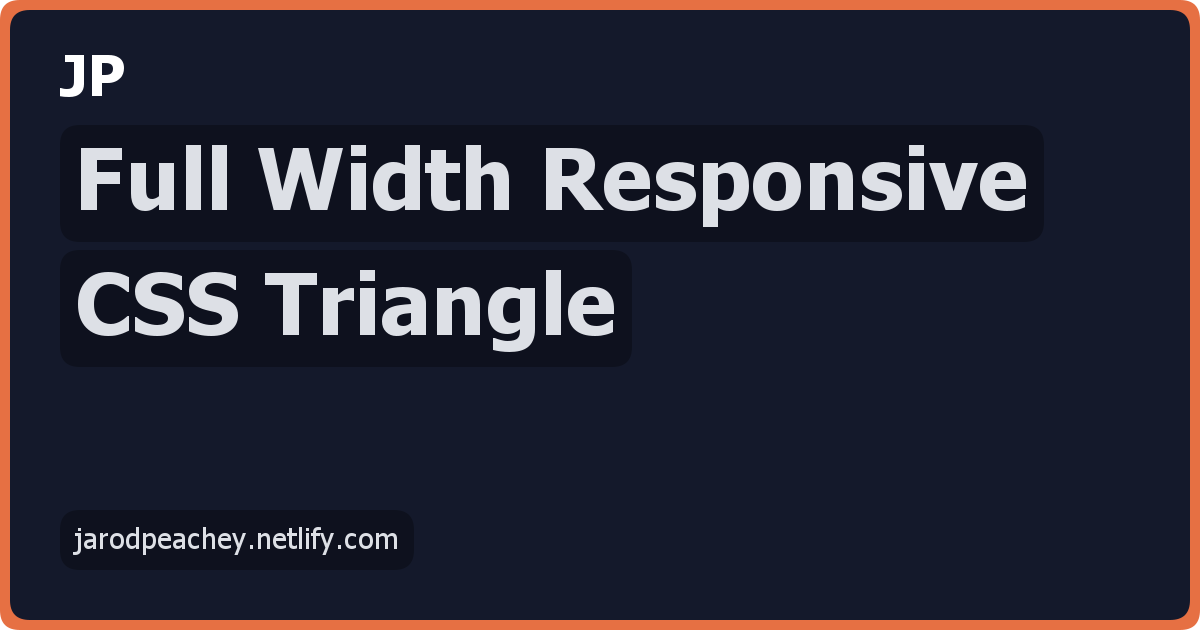
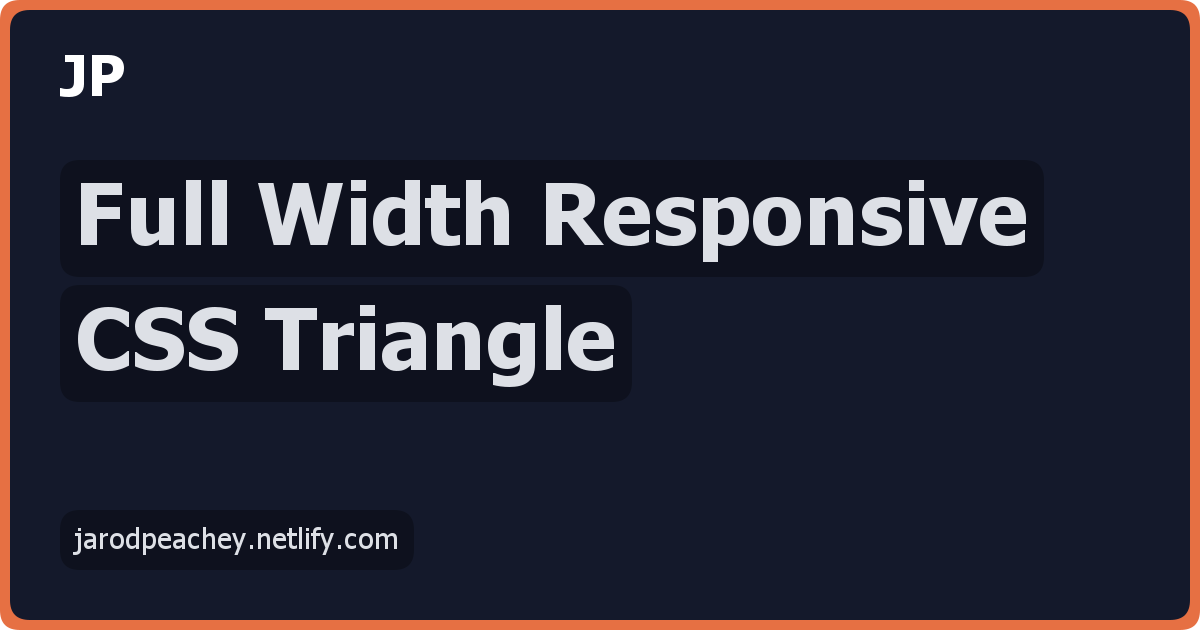
Update stuff

Changed region(s): [[0.0617, 0.2111, 0.8633, 0.4222], [0.0617, 0.4222, 0.5242, 0.6333]]

diff --git a/src/templates/blog.js b/src/templates/blog.js
@@ -45,8 +45,10 @@ const Blog = ({ pageContext }) => {
   return (
     <Layout>
       <SEO
-        title="Jarod Peachey - Front End Web Developer"
-        description="Modern website solutions built to be blazing fast, extremely secure and simple to manage. Built using React, Gatsby, Netlify, HTML, CSS and the JAMstack."
+        title="Blog - Jarod Peachey"
+        description="A collection of tips, tricks, bug fixes and random thoughts
+          about web development. React, Javascript and the JAMstack."
+        seoImage="/images/blog/seo.js"
       />
       <Hero
         background={`linear-gradient(
@@ -70,13 +72,10 @@ const Blog = ({ pageContext }) => {
       <Section
         spacing="sm"
         customStyles={`
-          margin-top: -60px;
+          margin-top: -40px;
         `}
       >
         <Container size="lg" customStyles={'position: relative;'}>
-          <Heading type="h5" display="title" color="primary">
-            Recent
-          </Heading>
           <Row spacing={[12]} breakpoints={[769, 1200]}>
             {group.map(({ node }) => (
               <Link
@@ -84,7 +83,7 @@ const Blog = ({ pageContext }) => {
                 widths={[6, 4]}
                 to={`/blog/${node.slug}`}
               >
-                <Card className="dark" key={node.id}>
+                <Card key={node.id}>
                   <Heading
                     customStyles={'line-height: 30px !important;'}
                     className="mt-none mb-3"
@@ -101,6 +100,27 @@ const Blog = ({ pageContext }) => {
                   <Paragraph>
                     {shortenText(node.metadata.description, 200)}
                   </Paragraph>
+                  <Link
+                    to={`/blog/${node.slug}`}
+                    style={{
+                      color: theme.color.secondary,
+                      textDecoration: 'none',
+                    }}
+                  >
+                    Read More
+                    <IconWrapper id="icon">
+                      <FontAwesomeIcon
+                        style={{
+                          color: theme.color.secondary,
+                          fontSize: 14,
+                          marginLeft: 8,
+                          position: 'relative',
+                          top: 2,
+                        }}
+                        icon="arrow-right"
+                      />
+                    </IconWrapper>
+                  </Link>
                 </Card>
               </Link>
             ))}
@@ -119,8 +139,10 @@ const Blog = ({ pageContext }) => {
             <PaginationButton
               active={
                 button.number === 1
-                  ? window.location.pathname === '/blog'
-                  : window.location.pathname.includes(button.path)
+                  ? typeof window !== 'undefined' &&
+                    window.location.pathname === '/blog/'
+                  : typeof window !== 'undefined' &&
+                    window.location.pathname.includes(button.path)
               }
               to={button.path}
             >
@@ -145,55 +167,6 @@ const Blog = ({ pageContext }) => {
           <div className="nextLink">
             <NavLink test={last} url={nextUrl} text="Go to Next Page" />
           </div> */}
-          <br />
-          <br />
-          <br />
-          <br />
-          <br />
-          <br />
-          <br />
-          <br />
-          <br />
-          <br />
-          <br />
-          <br />
-          <br />
-          <br />
-          <br />
-          <br />
-          <br />
-          <br />
-          <br />
-          <br />
-          <br />
-          <br />
-          <br />
-          <br />
-          <br />
-          <br />
-          <br />
-          <br />
-          <br />
-          <br />
-          <br />
-          <br />
-          <br />
-          <br />
-          <br />
-          <br />
-          <br />
-          <br />
-          <br />
-          <br />
-          <br />
-          <br />
-          <br />
-          <br />
-          <br />
-          <br />
-          <br />
-          <br />
-          <br />
         </Container>
       </Section>
     </Layout>
@@ -209,14 +182,38 @@ const NavLink = (props) => {
 };
 
 const Card = styled.div`
-  background: white;
+  background: ${(props) => props.theme.color.gray.eight};
+  background: #25293a;
   border-radius: 6px;
   padding: 18px;
   height: 100%;
+  h3 {
+    transition: 0.15s !important;
+  }
   @media (min-width: 769px) {
     padding: 24px;
   }
   box-shadow: 8px 8px 35px -20px #000;
+  transition: .15s;
+  :hover {
+    box-shadow: 8px 8px 45px -15px #000;
+    // h3 {
+    //   color: ${(props) => props.theme.color.secondary} !important;
+    //   transition: 0.15s !important;
+    // }
+    #icon {
+      left: 0px !important;
+      opacity: 1 !important;
+    }
+  }
+`;
+
+const IconWrapper = styled.div`
+  opacity: 0;
+  position: relative;
+  transition: 0.15s;
+  left: -20px;
+  display: inline-block;
 `;
 
 const PaginationPlaceholder = styled.div`

diff --git a/src/pages/index.js b/src/pages/index.js
@@ -155,7 +155,14 @@ const App = ({}) => {
               <Info
                 color="primary"
                 align="left"
-                customStyles={`background: ${theme.color.gray.eight}; :hover {box-shadow: 2px 10px 70px -18px ${theme.color.gray.eight};} transition-duration: .15s;`}
+                customStyles={`  background: ${(props) =>
+                  props.theme.color.gray.eight};
+  background: #25293A;
+  border-radius: 6px;
+
+
+
+  box-shadow: 8px 8px 35px -20px #000;`}
                 image={<img src={WeVoteImageTwo} />}
               >
                 <div className="px-4 py-4 pb-y">
@@ -213,7 +220,14 @@ const App = ({}) => {
               <Info
                 color="primary"
                 align="left"
-                customStyles={`background: ${theme.color.gray.eight}; :hover {box-shadow: 2px 10px 70px -18px ${theme.color.gray.eight};} transition-duration: .15s;`}
+                customStyles={`  background: ${(props) =>
+                  props.theme.color.gray.eight};
+  background: #25293A;
+  border-radius: 6px;
+
+
+
+  box-shadow: 8px 8px 35px -20px #000;`}
                 image={<img src={StaticboxImage} />}
               >
                 <div className="px-4 py-4 pb-y">
@@ -276,7 +290,14 @@ const App = ({}) => {
               <Info
                 color="primary"
                 align="left"
-                customStyles={`background: ${theme.color.gray.eight}; :hover {box-shadow: 2px 10px 70px -18px ${theme.color.gray.eight};} transition-duration: .15s;`}
+                customStyles={`  background: ${(props) =>
+                  props.theme.color.gray.eight};
+  background: #25293A;
+  border-radius: 6px;
+
+
+
+  box-shadow: 8px 8px 35px -20px #000;`}
                 image={<img src={JellyImage} />}
               >
                 <div className="px-4 py-4 pb-y">
@@ -337,7 +358,14 @@ const App = ({}) => {
               <Info
                 color="primary"
                 align="left"
-                customStyles={`background: ${theme.color.gray.eight}; :hover {box-shadow: 2px 10px 70px -18px ${theme.color.gray.eight};} transition-duration: .15s;`}
+                customStyles={`  background: ${(props) =>
+                  props.theme.color.gray.eight};
+  background: #25293A;
+  border-radius: 6px;
+
+
+
+  box-shadow: 8px 8px 35px -20px #000;`}
                 image={<img src={SystemImage} />}
               >
                 <div className="px-4 py-4 pb-y">

diff --git a/src/templates/post.js b/src/templates/post.js
@@ -30,6 +30,12 @@ library.add(faCheck, faUser, faCalendar, faCommentAlt, faArrowUp);
 const PostTemplate = ({ data, pageContext, location }) => {
   const { post } = data;
 
+  console.log(pageContext.seoImage);
+  console.log(pageContext.seoImage);
+  console.log(pageContext.seoImage);
+  console.log(pageContext.seoImage);
+  console.log(pageContext.seoImage);
+
   return (
     <Layout>
       <SEO
@@ -76,21 +82,23 @@ const PostTemplate = ({ data, pageContext, location }) => {
         </Container>
       </Hero>
       <Section spacing="small" customStyles={'padding-top: 0;'}>
-        <Container customStyles="position: relative;">
-          <Card>
-            {post.metadata.markdown_content && (
-              <div id="post-content" className="dark">
-                <ReactMarkdown source={post.metadata.markdown_content} />
-              </div>
-            )}
-            {!post.metadata.markdown_content && (
-              <div
-                id="post-content"
-                className="dark"
-                dangerouslySetInnerHTML={{ __html: post.content }}
-              />
-            )}
-          </Card>
+        <Container size="lg">
+          <Container align="left" customStyles={'position: relative;'}>
+            <Card>
+              {post.metadata.markdown_content && (
+                <div id="post-content" className="dark">
+                  <ReactMarkdown source={post.metadata.markdown_content} />
+                </div>
+              )}
+              {!post.metadata.markdown_content && (
+                <div
+                  id="post-content"
+                  className="dark"
+                  dangerouslySetInnerHTML={{ __html: post.content }}
+                />
+              )}
+            </Card>
+          </Container>
         </Container>
       </Section>
     </Layout>

diff --git a/src/components/Layout.js b/src/components/Layout.js
@@ -26,6 +26,7 @@ import {
   faAward,
   faPencilRuler,
   faEnvelope,
+  faArrowRight
 } from '@fortawesome/free-solid-svg-icons';
 import NavbarItem from '../system-components/NavbarItem';
 import SubMenuItem from '../system-components/SubMenuItem';
@@ -66,6 +67,7 @@ library.add(
   faBolt,
   faPencilRuler,
   faEnvelope,
+  faArrowRight
 );
 
 const GlobalStyles = createGlobalStyle`

diff --git a/src/utils/generateImage.js b/src/utils/generateImage.js
@@ -163,7 +163,7 @@ exports.generateImage = ({ title, imagePath, url }) => {
   //redraw the title over multiple lines
   const words = title.split(' ');
   let line = '';
-  let fromTop = 125;
+  let fromTop = 160;
   words.forEach((word) => {
     let testLine = line + word + ' ';
     if (context.measureText(testLine).width > width) {

diff --git a/gatsby-node.js b/gatsby-node.js
@@ -8,7 +8,13 @@ const { generateImage } = require('./src/utils/generateImage');
 
 generateImage({
   title: 'Jarod Peachey - Web Developer',
-  imagePath: 'jarod-peachey',
+  imagePath: 'home',
+  url: null,
+});
+
+generateImage({
+  title: 'Blog - Jarod Peachey',
+  imagePath: 'blog',
   url: null,
 });
 

diff --git a/src/components/SEO.js b/src/components/SEO.js
@@ -22,7 +22,7 @@ const SEO = ({ title, description, image, article, slug }) => {
   } = site.siteMetadata;
 
   console.log(image);
-  const defaultImage = '/images/jarod-peachey/seo.png';
+  const defaultImage = '/images/home/seo.png';
 
   return (
     <Helmet title={title || defaultTitle}>

diff --git a/src/components/theme.js b/src/components/theme.js
@@ -64,7 +64,7 @@ export const theme = {
       six: '#676f80',
       seven: '#3e475a',
       // 'eight': '#2c3446',
-      eight: '#1c2a3e',
+      eight: '#25293A',
       nine: '#14192b',
       // 'nine': '#15202b',
     },
